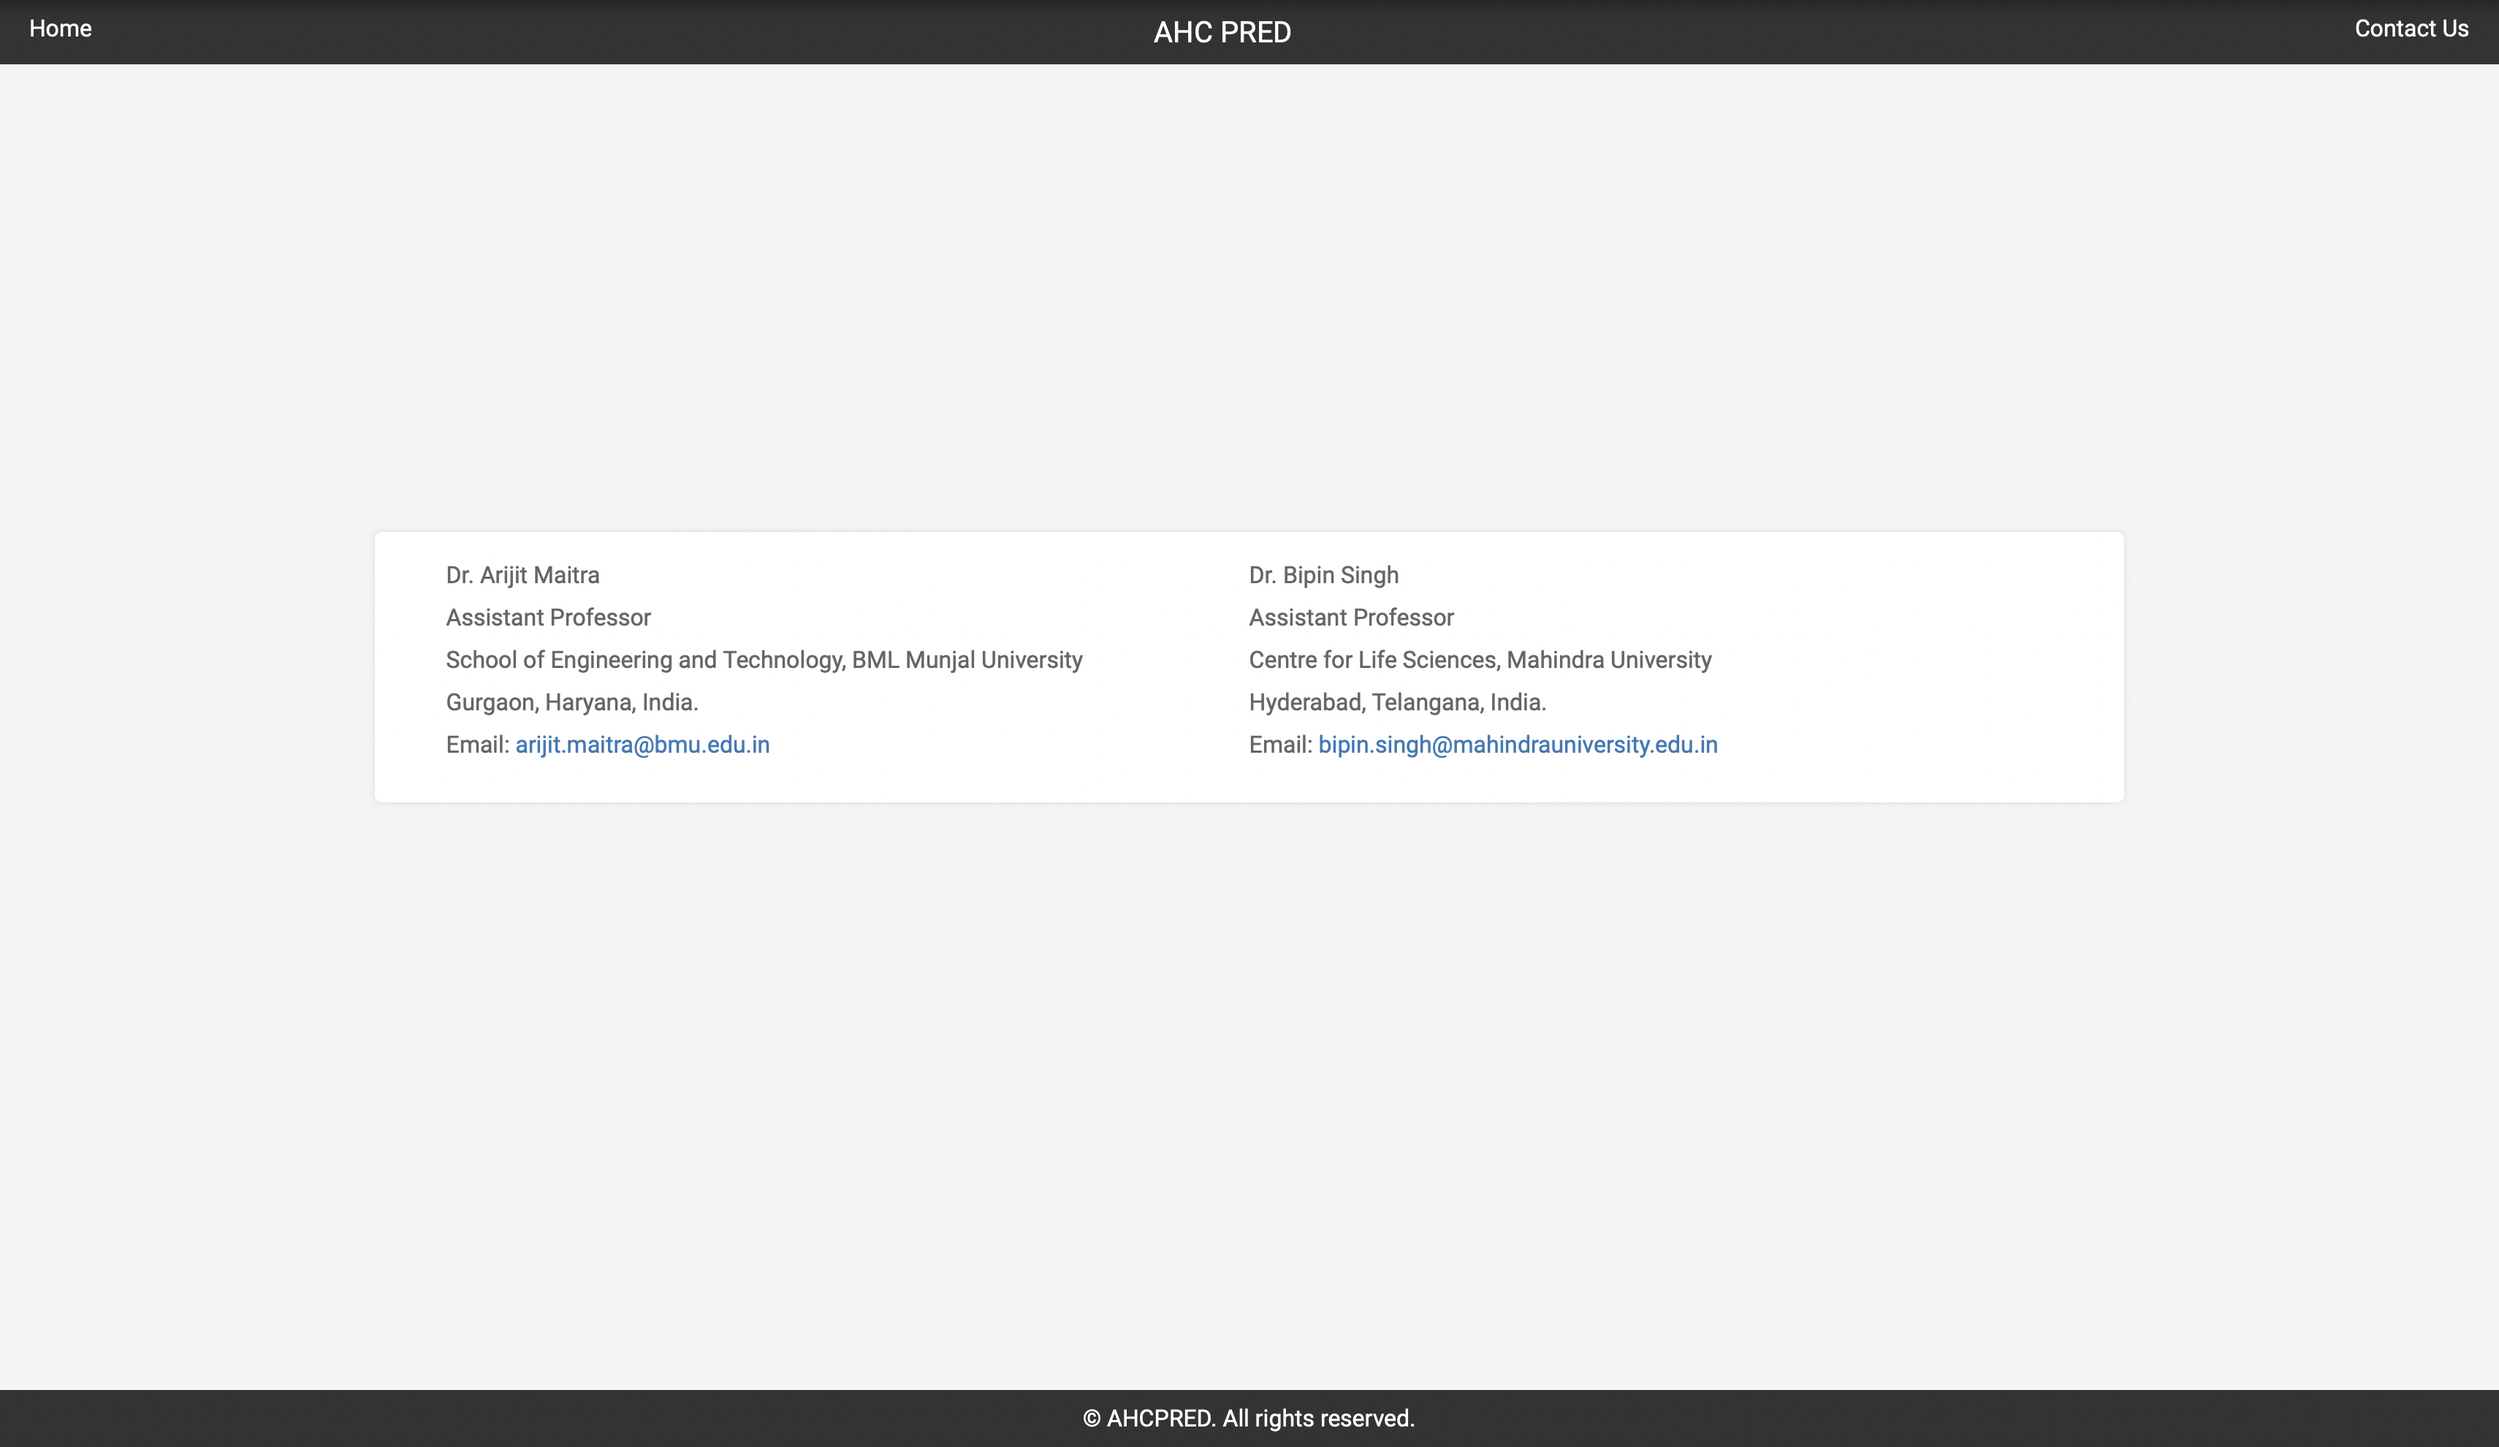
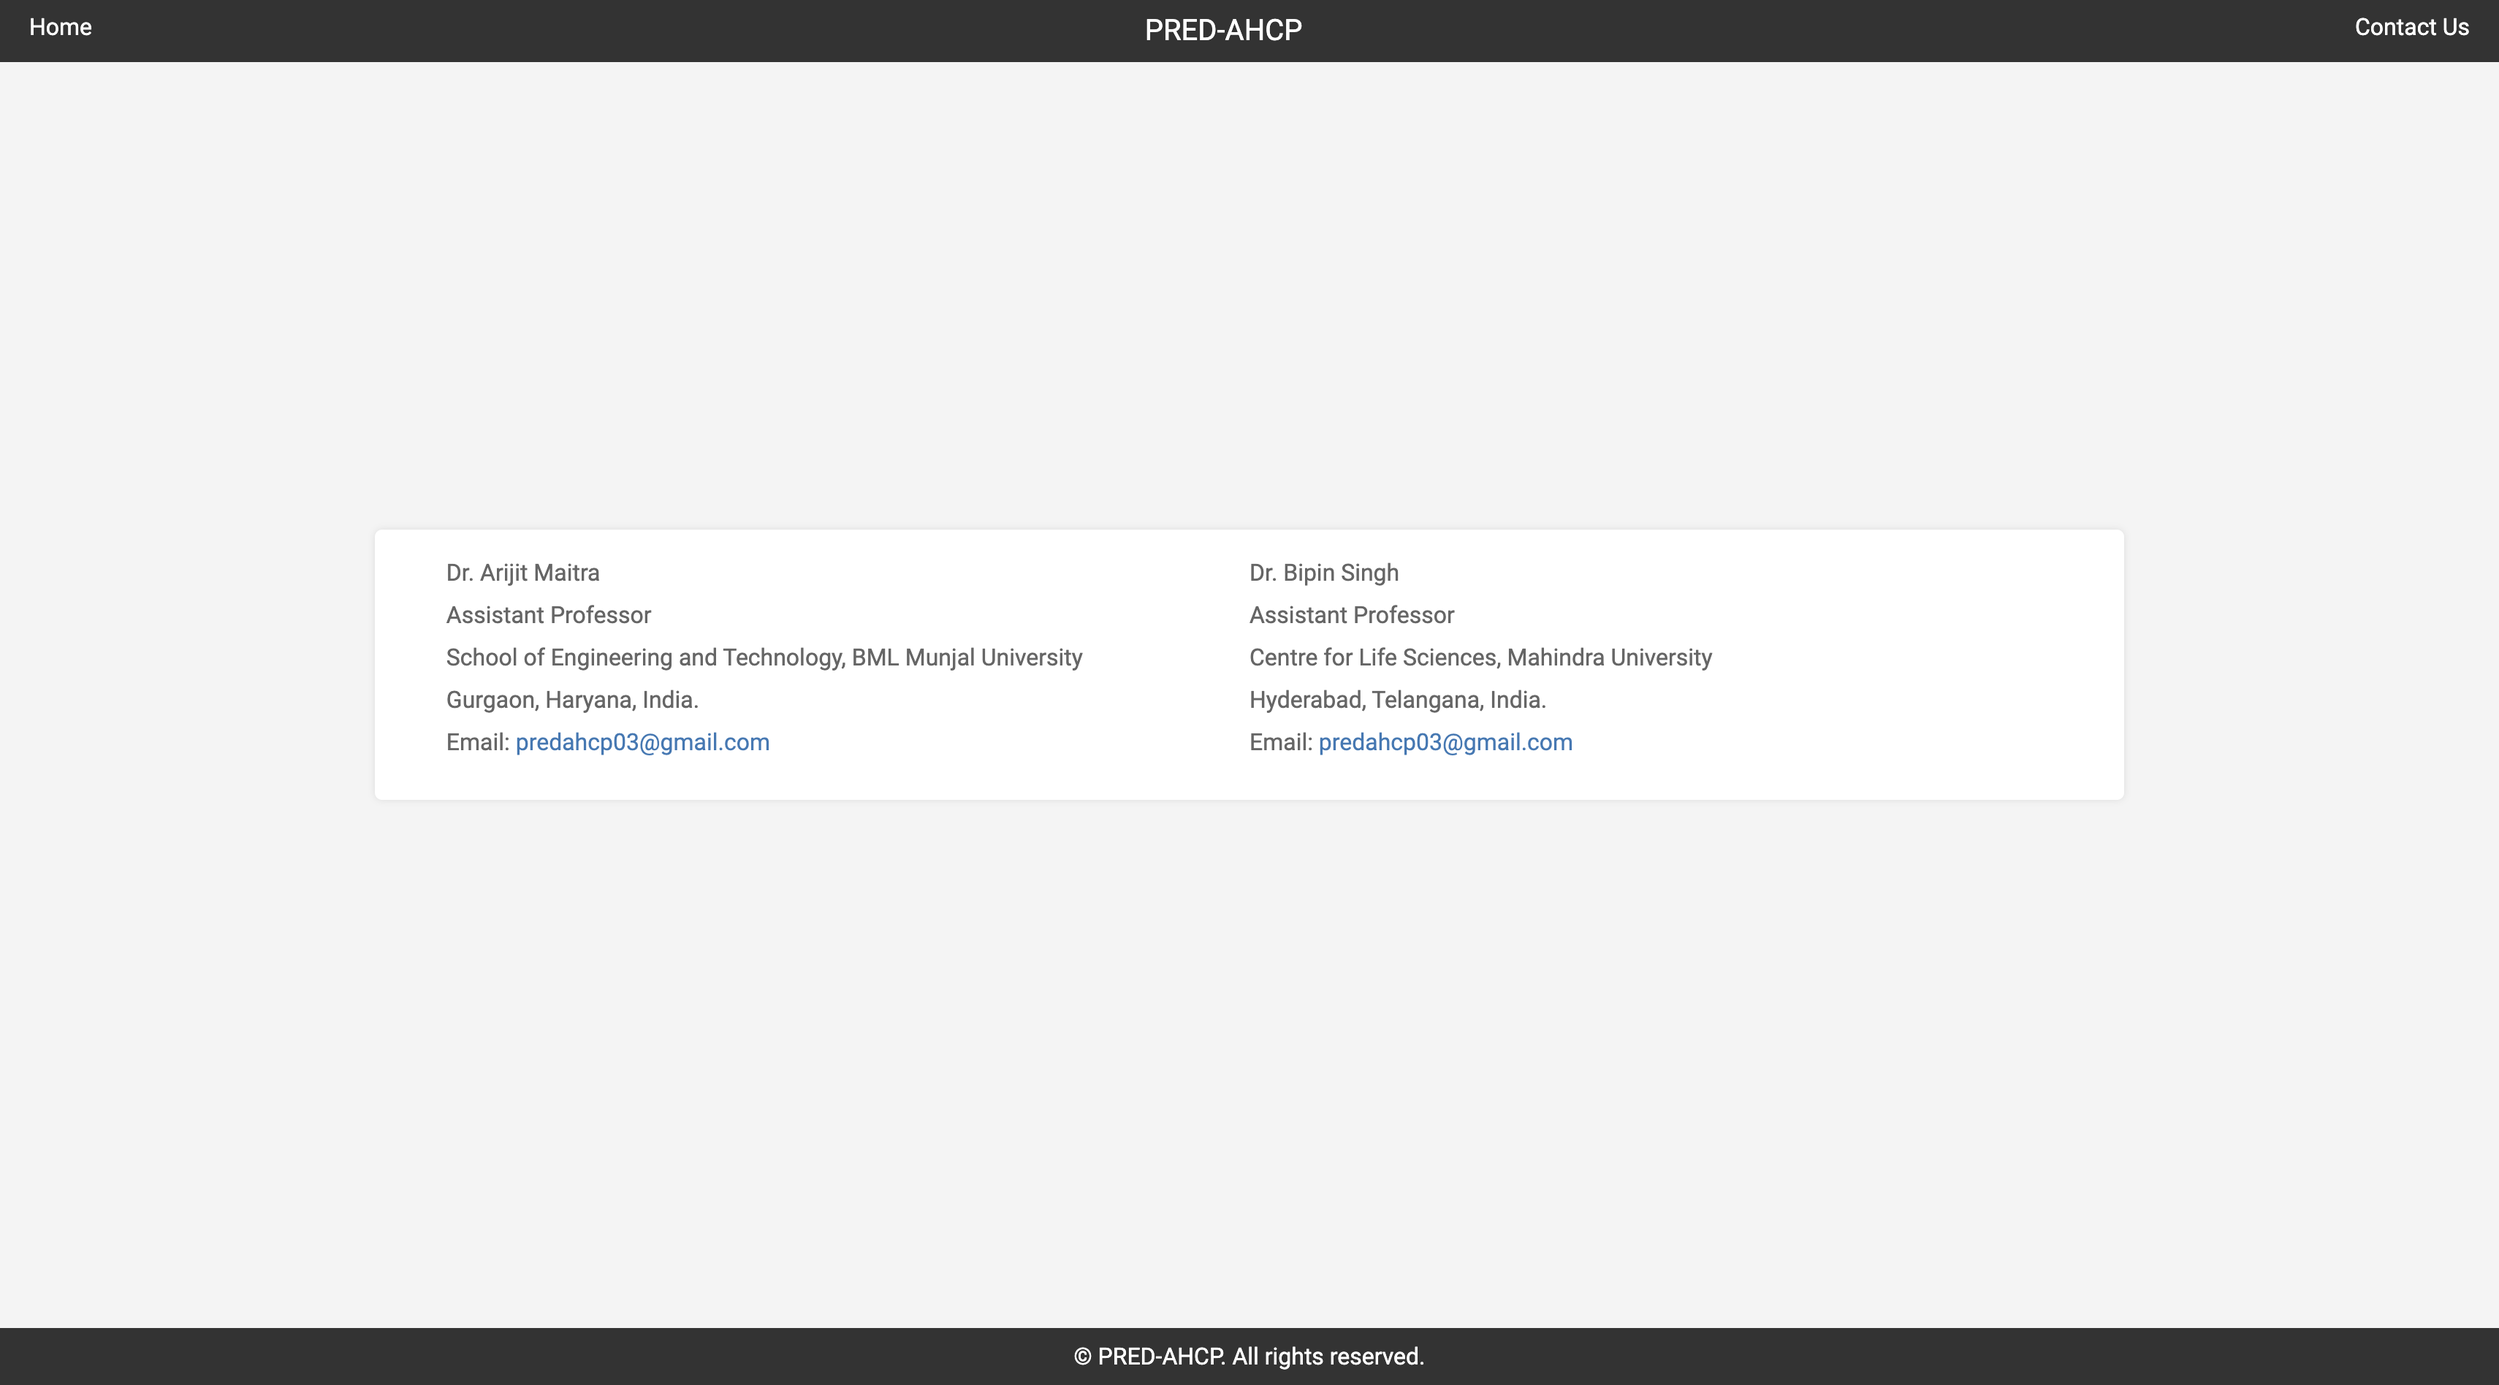
Updated Demo Images

diff --git a/WebServer/templates/contact.html b/WebServer/templates/contact.html
@@ -162,7 +162,7 @@
         </div>
     </div>
     <footer>
-        &copy; AHCPRED. All rights reserved.
+        &copy; PRED-AHCP. All rights reserved.
     </footer>
 </body>
 
